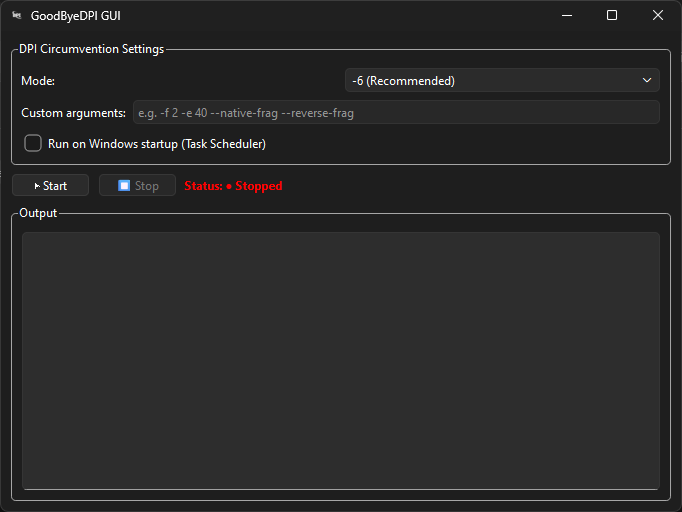
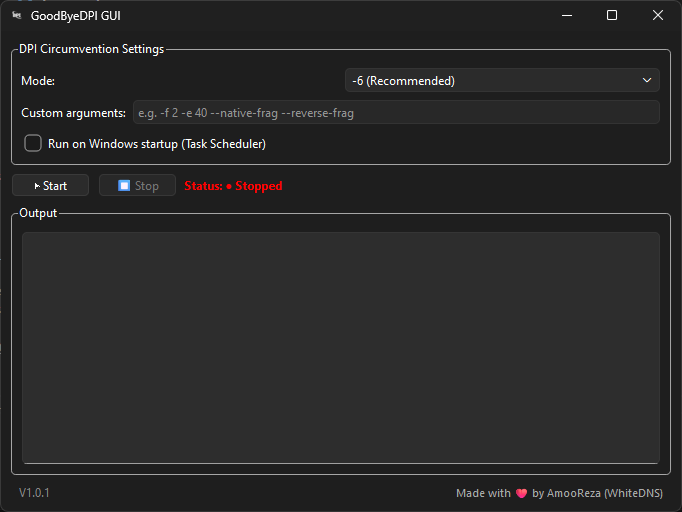
Add version label, update checker, and credit

Changed region(s): [[0.6466, 0.9375, 0.9853, 1.0], [0.0308, 0.9375, 0.0924, 1.0]]

diff --git a/goodbyedpi_gui.py b/goodbyedpi_gui.py
@@ -2,17 +2,19 @@ import sys
 import os
 import subprocess
 import ctypes
-from PySide6.QtGui import QAction, QIcon
+import json
+import urllib.request
+import threading
 
 from PySide6.QtWidgets import (
     QApplication, QMainWindow, QWidget, QVBoxLayout, QHBoxLayout,
     QLabel, QPushButton, QTextEdit, QComboBox, QLineEdit,
     QCheckBox, QMessageBox, QGroupBox
 )
-from PySide6.QtCore import Qt, QProcess, QTimer, Signal, Slot
-from PySide6.QtGui import QAction
+from PySide6.QtCore import Qt, QProcess, Signal, Slot, QSettings, QUrl
+from PySide6.QtGui import QIcon, QDesktopServices
 
-# برای بستهبندی PyInstaller
+
 def resource_path(relative_path):
     """Get absolute path to resource, works for dev and for PyInstaller."""
     if getattr(sys, 'frozen', False):
@@ -21,62 +23,66 @@ def resource_path(relative_path):
         base_path = os.path.abspath(".")
     return os.path.join(base_path, relative_path)
 
-# مسیر فایل اجرایی GoodbyeDPI (همراه بسته)
+
 DPI_EXE = resource_path("goodbyedpi.exe")
+
+# 🔹 Current version of the GUI
+CURRENT_VERSION = "1.0.1"
+GITHUB_API_URL = "https://api.github.com/repos/ZvanTors/GoodByeDPI-GUI/releases/latest"
+RELEASES_URL = "https://github.com/ZvanTors/GoodByeDPI-GUI/releases"
+
 
 class GoodbyeDPIManager(QMainWindow):
     log_signal = Signal(str)
+    update_found_signal = Signal(str)
 
     def __init__(self):
         super().__init__()
-        icon_path = resource_path("logo.ico")
-        self.setWindowIcon(QIcon(icon_path))
         self.setWindowTitle("GoodByeDPI GUI")
+        self.setWindowIcon(QIcon(resource_path("logo.ico")))
         self.resize(680, 480)
 
         self.process = None
         self.is_running = False
 
-        # تنظیمات پایدار با QSettings
-        from PySide6.QtCore import QSettings
+        # Settings
         self.settings = QSettings("GoodbyeDPIManager", "GUI")
-        self.load_settings()
+        self.mode_index = self.settings.value("mode_index", 0, type=int)
+        self.custom_args = self.settings.value("custom_args", "", type=str)
 
-        # ویجت مرکزی
+        # Central widget
         central_widget = QWidget()
         self.setCentralWidget(central_widget)
         main_layout = QVBoxLayout(central_widget)
 
-        # === گروه تنظیمات ===
+        # --- Settings group ---
         settings_group = QGroupBox("DPI Circumvention Settings")
         settings_layout = QVBoxLayout()
         settings_group.setLayout(settings_layout)
 
-        # انتخاب حالت
         mode_layout = QHBoxLayout()
         mode_layout.addWidget(QLabel("Mode:"))
         self.mode_combo = QComboBox()
         self.mode_combo.addItems(["-6 (Recommended)", "-5 (General)", "Custom"])
+        self.mode_combo.setCurrentIndex(self.mode_index)
         mode_layout.addWidget(self.mode_combo)
         settings_layout.addLayout(mode_layout)
 
-        # پارامترهای دستی
         custom_layout = QHBoxLayout()
         custom_layout.addWidget(QLabel("Custom arguments:"))
-        self.custom_args_edit = QLineEdit()
+        self.custom_args_edit = QLineEdit(self.custom_args)
         self.custom_args_edit.setPlaceholderText("e.g. -f 2 -e 40 --native-frag --reverse-frag")
         custom_layout.addWidget(self.custom_args_edit)
         self.mode_combo.currentIndexChanged.connect(self.on_mode_changed)
         settings_layout.addLayout(custom_layout)
 
-        # اجرای خودکار با ویندوز (Task Scheduler)
         self.autostart_check = QCheckBox("Run on Windows startup (Task Scheduler)")
         self.autostart_check.stateChanged.connect(self.toggle_autostart)
         settings_layout.addWidget(self.autostart_check)
 
         main_layout.addWidget(settings_group)
 
-        # === کنترلها ===
+        # --- Controls ---
         control_layout = QHBoxLayout()
         self.start_btn = QPushButton("▶ Start")
         self.start_btn.clicked.connect(self.start_goodbyedpi)
@@ -91,7 +97,7 @@ class GoodbyeDPIManager(QMainWindow):
         control_layout.addStretch()
         main_layout.addLayout(control_layout)
 
-        # === خروجی لاگ ===
+        # --- Output log ---
         log_group = QGroupBox("Output")
         log_layout = QVBoxLayout()
         log_group.setLayout(log_layout)
@@ -101,36 +107,29 @@ class GoodbyeDPIManager(QMainWindow):
         log_layout.addWidget(self.log_view)
         main_layout.addWidget(log_group)
 
-        # سیگنال لاگ
-        self.log_signal.connect(self.append_log)
+        # --- Bottom bar: version on left, credit on right ---
+        bottom_layout = QHBoxLayout()
+        self.version_label = QLabel(f"V{CURRENT_VERSION}")
+        self.version_label.setStyleSheet("color: #888; font-size: 9pt; padding: 2px 6px;")
+        bottom_layout.addWidget(self.version_label)
+        bottom_layout.addStretch()
+        credit_label = QLabel("Made with ❤️ by AmooReza (WhiteDNS)")
+        credit_label.setStyleSheet("color: #aaa; font-size: 8pt; padding: 2px 6px;")
+        bottom_layout.addWidget(credit_label)
+        main_layout.addLayout(bottom_layout)
 
-        # بارگذاری وضعیت اولیه
-        self.update_ui_from_settings()
+        # Connect signals
+        self.log_signal.connect(self.append_log)
+        self.update_found_signal.connect(self.show_update_notification)
+
+        # Initial UI state
+        self.update_autostart_check()
         self.on_mode_changed()
 
-    # ---- تنظیمات با QSettings ----
-    def load_settings(self):
-        """بارگذاری تنظیمات ذخیرهشده"""
-        # حالت (0: -6, 1: -5, 2: custom)
-        self.mode_index = self.settings.value("mode_index", 0, type=int)
-        self.custom_args = self.settings.value("custom_args", "", type=str)
-        # وضعیت autostart از Task Scheduler خوانده میشود، نه از QSettings
+        # --- Check for updates in background ---
+        threading.Thread(target=self.check_for_updates, daemon=True).start()
 
-    def save_settings(self):
-        """ذخیره تنظیمات فعلی"""
-        self.settings.setValue("mode_index", self.mode_combo.currentIndex())
-        self.settings.setValue("custom_args", self.custom_args_edit.text())
-
-    def update_ui_from_settings(self):
-        """اعمال تنظیمات به ویجتها"""
-        self.mode_combo.setCurrentIndex(self.mode_index)
-        self.custom_args_edit.setText(self.custom_args)
-        # بهروزرسانی چکباکس autostart
-        self.autostart_check.blockSignals(True)
-        self.autostart_check.setChecked(self.is_autostart_enabled())
-        self.autostart_check.blockSignals(False)
-
-    # ---- منطق اجرای خودکار ----
+    # ---- Autostart ----
     def is_autostart_enabled(self):
         try:
             result = subprocess.run(
@@ -141,12 +140,15 @@ class GoodbyeDPIManager(QMainWindow):
         except:
             return False
 
+    def update_autostart_check(self):
+        self.autostart_check.blockSignals(True)
+        self.autostart_check.setChecked(self.is_autostart_enabled())
+        self.autostart_check.blockSignals(False)
+
     def toggle_autostart(self, state):
         if state:
-            # مسیر فایل اجرایی فعلی (در حالت بستهبندی sys.executable است)
             exe_path = sys.executable if getattr(sys, 'frozen', False) else sys.argv[0]
             task_name = "GoodbyeDPIManager"
-            # اگر قبلاً وظیفهای وجود دارد، پاکش کن
             subprocess.run(["schtasks", "/delete", "/tn", task_name, "/f"], capture_output=True)
             try:
                 subprocess.run(
@@ -157,7 +159,6 @@ class GoodbyeDPIManager(QMainWindow):
                 QMessageBox.information(self, "Success", "Task created successfully.")
             except subprocess.CalledProcessError as e:
                 QMessageBox.critical(self, "Error", f"Failed to create task:\n{e.stderr}")
-                self.autostart_check.setChecked(False)
         else:
             try:
                 subprocess.run(
@@ -167,47 +168,41 @@ class GoodbyeDPIManager(QMainWindow):
                 QMessageBox.information(self, "Success", "Task removed.")
             except subprocess.CalledProcessError as e:
                 QMessageBox.critical(self, "Error", f"Failed to remove task:\n{e.stderr}")
-        # بهروزرسانی چکباکس بعد از تغییر واقعی
-        self.autostart_check.blockSignals(True)
-        self.autostart_check.setChecked(self.is_autostart_enabled())
-        self.autostart_check.blockSignals(False)
+        self.update_autostart_check()
 
-    # ---- تغییر حالت ----
+    # ---- Mode ----
     def on_mode_changed(self):
-        custom_mode = self.mode_combo.currentIndex() == 2
-        self.custom_args_edit.setEnabled(custom_mode)
-        if not custom_mode:
+        custom = self.mode_combo.currentIndex() == 2
+        self.custom_args_edit.setEnabled(custom)
+        if not custom:
             self.custom_args_edit.clear()
 
-    # ---- شروع/توقف ----
+    # ---- Start/Stop ----
     def start_goodbyedpi(self):
         if self.is_running:
             return
 
-        # ذخیره تنظیمات
-        self.save_settings()
+        self.settings.setValue("mode_index", self.mode_combo.currentIndex())
+        self.settings.setValue("custom_args", self.custom_args_edit.text())
 
-        # ساخت لیست آرگومانها
         args = []
-        mode_idx = self.mode_combo.currentIndex()
-        if mode_idx == 0:
+        idx = self.mode_combo.currentIndex()
+        if idx == 0:
             args = ["-6"]
-        elif mode_idx == 1:
+        elif idx == 1:
             args = ["-5"]
         else:
-            custom_text = self.custom_args_edit.text().strip()
-            if custom_text:
-                args = custom_text.split()
+            custom = self.custom_args_edit.text().strip()
+            if custom:
+                args = custom.split()
 
-        # مسیر فایل اجرایی (داخل بسته)
-        exe_path = DPI_EXE
-        if not os.path.exists(exe_path):
-            QMessageBox.critical(self, "Error", f"GoodbyeDPI executable not found:\n{exe_path}")
+        if not os.path.exists(DPI_EXE):
+            QMessageBox.critical(self, "Error", f"GoodbyeDPI executable not found:\n{DPI_EXE}")
             return
 
         try:
             self.process = QProcess(self)
-            self.process.setProgram(exe_path)
+            self.process.setProgram(DPI_EXE)
             self.process.setArguments(args)
             self.process.setProcessChannelMode(QProcess.MergedChannels)
             self.process.readyReadStandardOutput.connect(self.handle_output)
@@ -215,7 +210,7 @@ class GoodbyeDPIManager(QMainWindow):
             self.process.start()
 
             if not self.process.waitForStarted(3000):
-                QMessageBox.critical(self, "Error", "Failed to start GoodbyeDPI. Make sure you have administrator rights.")
+                QMessageBox.critical(self, "Error", "Failed to start. Run as Administrator!")
                 return
 
             self.is_running = True
@@ -225,7 +220,7 @@ class GoodbyeDPIManager(QMainWindow):
             self.status_label.setStyleSheet("color: green; font-weight: bold;")
             self.log_signal.emit("--- GoodbyeDPI started ---")
         except Exception as e:
-            QMessageBox.critical(self, "Error", f"Error starting GoodbyeDPI:\n{e}")
+            QMessageBox.critical(self, "Error", f"Error:\n{e}")
 
     def stop_goodbyedpi(self):
         if self.process and self.is_running:
@@ -252,7 +247,52 @@ class GoodbyeDPIManager(QMainWindow):
     def append_log(self, text):
         self.log_view.append(text)
 
-    # ---- بستن برنامه ----
+    # ---- Update checking ----
+    def check_for_updates(self):
+        """Run in a background thread: fetch the latest release tag from GitHub."""
+        try:
+            req = urllib.request.Request(GITHUB_API_URL, headers={
+                "Accept": "application/vnd.github.v3+json"
+            })
+            with urllib.request.urlopen(req, timeout=5) as response:
+                data = json.loads(response.read().decode())
+            latest_tag = data.get("tag_name", "")
+            if latest_tag:
+                latest_version = latest_tag.lstrip("v")
+                if self.is_newer_version(latest_version):
+                    self.update_found_signal.emit(latest_version)
+        except Exception:
+            pass
+
+    def is_newer_version(self, remote_version):
+        try:
+            current = tuple(map(int, CURRENT_VERSION.split(".")))
+            remote = tuple(map(int, remote_version.split(".")))
+            return remote > current
+        except:
+            return False
+
+    @Slot(str)
+    def show_update_notification(self, new_version):
+        """Show a message box with OK and Update buttons."""
+        msg_box = QMessageBox(self)
+        msg_box.setWindowTitle("Update Available")
+        msg_box.setIcon(QMessageBox.Information)
+        msg_box.setText(
+            f"A new version of GoodByeDPI GUI is available!\n\n"
+            f"Current version: V{CURRENT_VERSION}\n"
+            f"Latest version: V{new_version}\n\n"
+            f"Do you want to visit the Releases page?"
+        )
+        ok_btn = msg_box.addButton("OK", QMessageBox.RejectRole)
+        update_btn = msg_box.addButton("Update", QMessageBox.AcceptRole)
+        msg_box.setDefaultButton(update_btn)
+        msg_box.exec()
+
+        if msg_box.clickedButton() == update_btn:
+            QDesktopServices.openUrl(QUrl(RELEASES_URL))
+
+    # ---- Window close ----
     def closeEvent(self, event):
         if self.is_running:
             reply = QMessageBox.question(self, "Confirm Exit",
@@ -268,7 +308,6 @@ class GoodbyeDPIManager(QMainWindow):
 
 
 if __name__ == "__main__":
-    # بررسی دسترسی ادمین
     if not ctypes.windll.shell32.IsUserAnAdmin():
         QMessageBox.critical(None, "Error", "This program must be run as Administrator!")
         sys.exit(1)